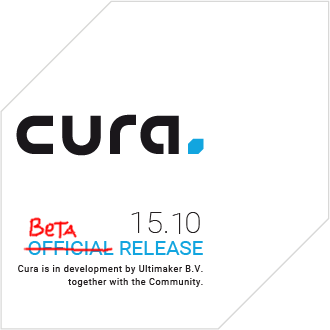
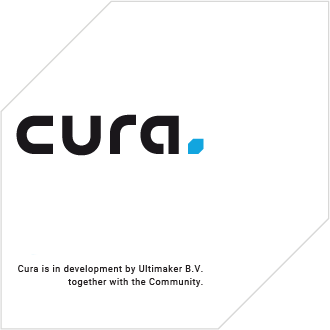
Display the version number in the splash screen

Changed region(s): [[0.0606, 0.6364, 0.3333, 0.7879], [0.3636, 0.6364, 0.6061, 0.7879], [0.3939, 0.6364, 0.4242, 0.697]]

diff --git a/cura/CuraSplashScreen.py b/cura/CuraSplashScreen.py
@@ -1,0 +1,28 @@
+# Copyright (c) 2015 Ultimaker B.V.
+# Uranium is released under the terms of the AGPLv3 or higher.
+
+from PyQt5.QtCore import Qt
+from PyQt5.QtGui import QPixmap, QColor, QFont
+from PyQt5.QtWidgets import QSplashScreen
+
+from UM.Resources import Resources
+from UM.Application import Application
+
+class CuraSplashScreen(QSplashScreen):
+    def __init__(self):
+        super().__init__()
+        self.setPixmap(QPixmap(Resources.getPath(Resources.Images, "cura.png")))
+
+    def drawContents(self, painter):
+        painter.save()
+        painter.setPen(QColor(0, 0, 0, 255))
+
+        version = Application.getInstance().getVersion().split("-")
+
+        painter.setFont(QFont("Roboto", 20))
+        painter.drawText(0, 0, 203, 230, Qt.AlignRight | Qt.AlignBottom, version[0])
+        painter.setFont(QFont("Roboto", 12))
+        painter.drawText(0, 0, 203, 255, Qt.AlignRight | Qt.AlignBottom, version[1])
+
+        painter.restore()
+        super().drawContents(painter)

diff --git a/cura/CuraApplication.py b/cura/CuraApplication.py
@@ -38,6 +38,7 @@ from . import PrintInformation
 from . import CuraActions
 from . import MultiMaterialDecorator
 from . import ZOffsetDecorator
+from . import CuraSplashScreen
 
 from PyQt5.QtCore import pyqtSlot, QUrl, Qt, pyqtSignal, pyqtProperty, QEvent, Q_ENUMS
 from PyQt5.QtGui import QColor, QIcon
@@ -514,6 +515,9 @@ class CuraApplication(QtApplication):
                 ungrouped_nodes.append(node)
         for node in ungrouped_nodes:
             Selection.remove(node)
+
+    def _createSplashScreen(self):
+        return CuraSplashScreen.CuraSplashScreen()
 
     def _onActiveMachineChanged(self):
         machine = self.getMachineManager().getActiveMachineInstance()
